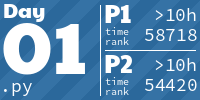
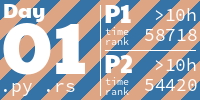
:snowflake: Add rust solution for day 1

diff --git a/2024/01/main.rs b/2024/01/main.rs
@@ -1,0 +1,35 @@
+use std::io::{self, Read};
+
+fn main() -> Result<(), Box<dyn std::error::Error>> {
+    let mut input = String::new();
+    io::stdin().read_to_string(&mut input)?;
+
+    let mut left: Vec<i32> = vec![];
+    let mut right: Vec<i32> = vec![];
+
+    for line in input.lines() {
+        let mut values = line.split_whitespace();
+
+        left.push(values.next().unwrap().parse()?);
+        right.push(values.next().unwrap().parse()?)
+    }
+
+    let mut total_distance = 0;
+
+    left.sort();
+    right.sort();
+
+    for (left, right) in left.clone().into_iter().zip(&right) {
+        total_distance += (left - right).abs();
+    }
+
+    let mut similarity = 0;
+
+    for left in &left {
+        similarity += right.iter().filter(|x| x == &left).count() as i32 * left;
+    }
+
+    println!("{} {}", total_distance, similarity);
+
+    Ok(())
+}
